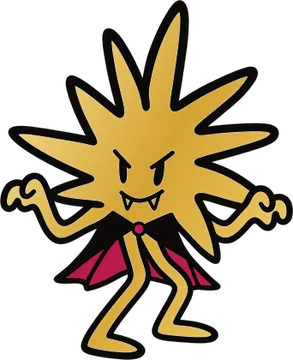
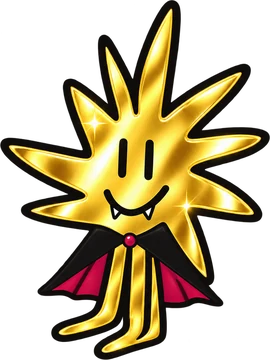
Henny Penny headings, new golden Manyong, reset PIN, 'done' button
Claude-Session: https://claude.ai/code/session_01UAPsCXmMB6vHayoDnXwrPd

diff --git a/app.js b/app.js
@@ -13,7 +13,7 @@ const T = {
  en:{eyebrow:"Halloween · Oct 26–31",title:"Find Manyong!",lead:"Our vampire Manyong is hiding in three spots in the store. Tap a shadow and scan the QR code when you find him.",
   found:"Found",tap:"Tap a shadow to open the camera.",slotOpen:"Still hiding",slotDone:"Found!",
   doneEyebrow:"All three found",doneTitle:"You caught Manyong!",sample:"SAMPLE",valid:"Valid until 31 Oct 2026",show:"Show this screen at the checkout",
-  hint:"Our staff will confirm it with a PIN.",staff:"Staff only · Redeem",pinLabel:"Staff PIN",pinWrong:"Wrong PIN.",pinLocked:"Too many tries. Please wait {s} s.",pinNoHttps:"PIN check needs a secure (https) page.",
+  hint:"Our staff will confirm it with a PIN.",staff:"I'm done!",pinLabel:"Staff PIN",pinWrong:"Wrong PIN.",pinLocked:"Too many tries. Please wait {s} s.",pinNoHttps:"PIN check needs a secure (https) page.",
   usedAt:"Redeemed ",stamp:"Redeemed",ended:"This promotion has ended.",redeemedToast:"Coupon redeemed",
   secretEyebrow:"Psst … secret",secretTitle:"There's one more: the golden Manyong.",secretHint:"Play “Don't Wake Manyong!” in the K-POP zone on the 1st floor. Win, and a secret QR code appears on the screen.",
   bonusEyebrow:"Secret found",bonusTitle:"Golden Manyong found!",bonusEarly:"Golden Manyong found! Find the other three to unlock it.",
@@ -26,7 +26,7 @@ const T = {
  de:{eyebrow:"Halloween · 26.–31. Oktober",title:"Finde Manyong!",lead:"Unser Vampir Manyong hat sich an drei Orten im Store versteckt. Tippe auf einen Schatten und scanne den QR-Code, wenn du ihn findest.",
   found:"Gefunden",tap:"Tippe auf einen Schatten, um die Kamera zu öffnen.",slotOpen:"Noch versteckt",slotDone:"Gefunden!",
   doneEyebrow:"Alle drei gefunden",doneTitle:"Manyong ist erwischt!",sample:"BEISPIEL",valid:"Gültig bis 31.10.2026",show:"Zeig diesen Bildschirm an der Kasse",
-  hint:"Unser Team bestätigt mit einer PIN.",staff:"Nur Personal · Einlösen",pinLabel:"Personal-PIN",pinWrong:"Falsche PIN.",pinLocked:"Zu viele Versuche. Bitte {s} Sek. warten.",pinNoHttps:"Die PIN-Prüfung braucht eine sichere (https) Seite.",
+  hint:"Unser Team bestätigt mit einer PIN.",staff:"Geschafft!",pinLabel:"Personal-PIN",pinWrong:"Falsche PIN.",pinLocked:"Zu viele Versuche. Bitte {s} Sek. warten.",pinNoHttps:"Die PIN-Prüfung braucht eine sichere (https) Seite.",
   usedAt:"Eingelöst am ",stamp:"Eingelöst",ended:"Diese Aktion ist beendet.",redeemedToast:"Coupon eingelöst",
   secretEyebrow:"Psst … geheim",secretTitle:"Da ist noch ein goldener Manyong.",secretHint:"Spiel „Weck Manyong nicht auf!“ in der K-POP-Zone im 1. OG. Wer gewinnt, bekommt einen geheimen QR-Code auf dem Bildschirm.",
   bonusEyebrow:"Geheimnis gelüftet",bonusTitle:"Goldener Manyong gefunden!",bonusEarly:"Goldener Manyong gefunden! Finde zuerst die anderen drei.",
@@ -39,7 +39,7 @@ const T = {
  ko:{eyebrow:"Halloween · 10월 26–31일",title:"숨은 마뇽을 찾아라!",lead:"뱀파이어 마뇽이 매장 세 곳에 숨었어요. 그림자를 누르고, 마뇽을 찾으면 옆의 QR을 찍어 주세요.",
   found:"찾은 마뇽",tap:"그림자를 누르면 카메라가 켜져요.",slotOpen:"숨어 있음",slotDone:"찾았다!",
   doneEyebrow:"세 마리 모두 찾음",doneTitle:"마뇽을 잡았어요!",sample:"예시",valid:"2026년 10월 31일까지 사용 가능",show:"계산대에서 이 화면을 보여 주세요",
-  hint:"직원이 PIN으로 확인해 드려요.",staff:"직원 전용 · 사용 처리",pinLabel:"직원 PIN",pinWrong:"PIN이 맞지 않아요.",pinLocked:"시도가 너무 많아요. {s}초 후에 다시 해 주세요.",pinNoHttps:"PIN 확인은 https 페이지에서만 돼요.",
+  hint:"직원이 PIN으로 확인해 드려요.",staff:"완료했어요",pinLabel:"직원 PIN",pinWrong:"PIN이 맞지 않아요.",pinLocked:"시도가 너무 많아요. {s}초 후에 다시 해 주세요.",pinNoHttps:"PIN 확인은 https 페이지에서만 돼요.",
   usedAt:"사용 완료 ",stamp:"사용 완료",ended:"이벤트가 끝났어요.",redeemedToast:"쿠폰 사용 완료",
   secretEyebrow:"쉿… 비밀",secretTitle:"황금 마뇽이 하나 더 있어요.",secretHint:"1층 K-POP존에서 ‘마뇽을 깨우지 마!’ 게임을 해 보세요. 성공하면 화면에 비밀 QR이 나타나요.",
   bonusEyebrow:"비밀을 찾았어요",bonusTitle:"황금 마뇽을 찾았어요!",bonusEarly:"황금 마뇽을 찾았어요! 나머지 세 마리를 먼저 찾아 주세요.",
@@ -53,7 +53,7 @@ const T = {
 
 const IMG = { s1:"img/s1.webp", s2:"img/s2.webp", s3:"img/s3.webp", c1:"img/c1.webp", c2:"img/c2.webp", c3:"img/c3.webp", gold:"img/gold.webp", sgold:"img/sgold.webp" };
 
-const fresh = () => ({ found: [], code: null, redeemed: null, bonusRedeemed: null, visited: false, pinFails: 0, lockUntil: 0 });
+const fresh = () => ({ found: [], code: null, redeemed: null, bonusRedeemed: null, visited: false, tester: false, pinFails: 0, lockUntil: 0 });
 let state = fresh();
 let lang = "en";
 const $ = s => document.querySelector(s);
@@ -88,7 +88,7 @@ let flushing = false;
 try { queue = JSON.parse(localStorage.getItem(Q_KEY)) || []; } catch (e) { queue = []; }
 function saveQ() { try { localStorage.setItem(Q_KEY, JSON.stringify(queue.slice(-50))); } catch (e) {} }
 function track(ev, extra) {
-  if (!CFG.sheetUrl) return;
+  if (!CFG.sheetUrl || state.tester) return;   // phones used for testing are not counted
   queue.push(Object.assign({ ev: ev, lang: lang, t: Date.now() }, extra || {}));
   saveQ(); flush();
 }
@@ -107,20 +107,23 @@ async function flush() {
 window.addEventListener("online", flush);
 
 /* ---------- PIN ---------- */
-async function pinOk(pin) {
+// Returns "staff", "reset" or false.
+async function pinKind(pin) {
   if (!window.crypto || !crypto.subtle) throw new Error("nohttps");
   const buf = await crypto.subtle.digest("SHA-256", new TextEncoder().encode("manyong:" + pin));
   const hex = Array.from(new Uint8Array(buf)).map(b => b.toString(16).padStart(2, "0")).join("");
-  return hex === String(CFG.staffPinHash || "").toLowerCase();
+  if (hex === String(CFG.staffPinHash || "").toLowerCase()) return "staff";
+  if (CFG.resetPinHash && hex === String(CFG.resetPinHash).toLowerCase()) return "reset";
+  return false;
 }
 function lockLeft() { return Math.max(0, Math.ceil((state.lockUntil - Date.now()) / 1000)); }
 async function checkPin(pin, errEl, box) {
   errEl.textContent = "";
   const left = lockLeft();
   if (left) { errEl.textContent = t("pinLocked").replace("{s}", left); return false; }
-  let ok = false;
-  try { ok = await pinOk(pin); } catch (e) { errEl.textContent = t("pinNoHttps"); return false; }
-  if (ok) { state.pinFails = 0; save(); return true; }
+  let kind = false;
+  try { kind = /^\d{4}$/.test(pin) ? await pinKind(pin) : false; } catch (e) { errEl.textContent = t("pinNoHttps"); return false; }
+  if (kind) { state.pinFails = 0; save(); return kind; }
   state.pinFails = (state.pinFails || 0) + 1;
   if (state.pinFails >= 5) { state.pinFails = 0; state.lockUntil = Date.now() + 60000; }
   save();
@@ -128,27 +131,48 @@ async function checkPin(pin, errEl, box) {
   if (box) { box.classList.remove("shake"); void box.offsetWidth; box.classList.add("shake"); }
   return false;
 }
+// Back to the very start on this phone (testing). Not counted.
+function hardReset() {
+  state = Object.assign(fresh(), { visited: true, tester: true });
+  save();
+  Object.keys(coupons).forEach(k => { coupons[k].open = false; coupons[k].q("pinbox").hidden = true; });
+  $("#staffpanel").hidden = true;
+  if (location.hash) { try { history.replaceState(null, "", location.pathname); } catch (e) {} }
+  render(); window.scrollTo(0, 0); toast("✓");
+}
 
 /* ---------- coupons ---------- */
 const coupons = {};
 function buildCoupon(el, kind) {
   el.appendChild($("#couponTpl").content.cloneNode(true));
   const q = k => el.querySelector('[data-k="' + k + '"]');
-  const c = { el: el, kind: kind, q: q };
-  q("staff").addEventListener("click", () => {
-    q("staff").hidden = true; q("pinbox").hidden = false; q("pin").value = ""; q("pinerr").textContent = "";
+  const c = { el: el, kind: kind, q: q, open: false };
+  const openPad = () => {
+    c.open = true; q("staff").hidden = true; q("pinbox").hidden = false; q("pin").value = ""; q("pinerr").textContent = "";
     q("pin").focus();
-  });
-  q("cancel").addEventListener("click", () => { q("pinbox").hidden = true; q("staff").hidden = false; });
+  };
+  const closePad = () => { c.open = false; q("pinbox").hidden = true; renderCoupon(kind); };
+  q("staff").addEventListener("click", openPad);
+  q("stamp").addEventListener("click", openPad);   // used coupon: tap the stamp to open the PIN pad
+  q("ended").addEventListener("click", openPad);
+  q("cancel").addEventListener("click", closePad);
+  let busy = false;
   const submit = async () => {
+    if (busy) return;
+    busy = true;
     const pin = q("pin").value.trim();
-    if (!/^\d{4}$/.test(pin)) { q("pinerr").textContent = t("pinWrong"); return; }
-    const ok = await checkPin(pin, q("pinerr"), q("pinbox"));
+    const res = await checkPin(pin, q("pinerr"), q("pinbox"));
     q("pin").value = "";
-    if (!ok) return;
-    if (kind === "main") { state.redeemed = Date.now(); track("redeem", { code: state.code }); }
-    else { state.bonusRedeemed = Date.now(); track("bonus_redeem", { code: state.code }); }
-    save(); q("pinbox").hidden = true; render(); toast(t("redeemedToast"));
+    busy = false;
+    if (!res) return;
+    if (res === "reset") { hardReset(); return; }
+    const used = kind === "main" ? state.redeemed : state.bonusRedeemed;
+    if (!used && !ended()) {
+      if (kind === "main") { state.redeemed = Date.now(); track("redeem", { code: state.code }); }
+      else { state.bonusRedeemed = Date.now(); track("bonus_redeem", { code: state.code }); }
+      save(); toast(t("redeemedToast"));
+    }
+    c.open = false; q("pinbox").hidden = true; render();
   };
   q("ok").addEventListener("click", submit);
   q("pin").addEventListener("keydown", e => { if (e.key === "Enter") { e.preventDefault(); submit(); } });
@@ -182,8 +206,8 @@ function renderCoupon(kind) {
   q("ended").hidden = !isEnded;
   const canRedeem = !used && !isEnded;
   q("hint").hidden = !canRedeem;
-  if (!canRedeem) { q("staff").hidden = true; q("pinbox").hidden = true; }
-  else if (q("pinbox").hidden) q("staff").hidden = false;
+  q("pinbox").hidden = !c.open;
+  q("staff").hidden = c.open || !canRedeem;
 }
 
 /* ---------- render ---------- */
@@ -356,16 +380,12 @@ document.querySelectorAll(".langs button").forEach(b => b.addEventListener("clic
   lang = b.dataset.lang; try { localStorage.setItem(KEY + "-lang", lang); } catch (e) {} render();
 }));
 
-// Staff-only reset: open the page with #reset, enter the PIN.
+// Testing: open the page with #reset and enter the reset PIN (works at any point).
 async function doReset() {
-  const ok = await checkPin($("#resetPin").value.trim(), $("#resetErr"), $("#staffpanel"));
+  const res = await checkPin($("#resetPin").value.trim(), $("#resetErr"), $("#staffpanel"));
   $("#resetPin").value = "";
-  if (!ok) return;
-  const keep = { visited: state.visited };
-  state = Object.assign(fresh(), keep); save();
-  $("#staffpanel").hidden = true;
-  try { history.replaceState(null, "", location.pathname); } catch (e) {}
-  render(); toast(t("resetDone"));
+  if (res === "reset") hardReset();
+  else if (res) $("#resetErr").textContent = t("pinWrong");
 }
 $("#resetGo").addEventListener("click", doReset);
 $("#resetPin").addEventListener("keydown", e => { if (e.key === "Enter") doReset(); });

diff --git a/index.html b/index.html
@@ -11,6 +11,7 @@
 <link rel="apple-touch-icon" href="img/icon.png">
 <style>
 /* Layout: one phone-width column. A dark store-at-night ground, three white "plates" that hold the shadows, one gold secret below. Single dark look by choice. */
+@font-face{font-family:"Henny Penny";src:url(fonts/hennypenny.woff2) format("woff2");font-weight:400;font-display:swap}
 @font-face{font-family:"Bricolage Grotesque";src:url(fonts/bricolage-800.woff2) format("woff2");font-weight:800;font-display:swap}
 @font-face{font-family:"Instrument Sans";src:url(fonts/instrument-400.woff2) format("woff2");font-weight:400;font-display:swap}
 @font-face{font-family:"Instrument Sans";src:url(fonts/instrument-500.woff2) format("woff2");font-weight:500;font-display:swap}
@@ -20,10 +21,13 @@
   --plate:#f3f1ec; --plate-ink:#111; --red:#c4144b; --gold:#e3b34c; --gold-deep:#b8862a; --bad:#ff7a9c;
   --silver:linear-gradient(100deg,#c9c9cf 0%,#ffffff 35%,#a7a7ae 60%,#f1f1f4 100%);
   --kr:"Apple SD Gothic Neo","Noto Sans KR","Noto Sans CJK KR","Malgun Gothic";
-  --f-display:"Bricolage Grotesque",var(--kr),system-ui,sans-serif;
+  --f-display:"Henny Penny",var(--kr),system-ui,sans-serif; --dw:400; --dls:0;
+  --f-brand:"Bricolage Grotesque",system-ui,sans-serif;
   --f-body:"Instrument Sans",var(--kr),system-ui,-apple-system,sans-serif;
   color-scheme:dark;
 }
+/* Korean has no Henny Penny glyphs: use the brand face there */
+html[lang="ko"]{--f-display:"Bricolage Grotesque",var(--kr),system-ui,sans-serif;--dw:800;--dls:-.02em}
 *{box-sizing:border-box}
 html,body{background:var(--bg);color:var(--ink);margin:0}
 :root{padding-top:env(safe-area-inset-top,0px);padding-bottom:env(safe-area-inset-bottom,0px)}
@@ -35,19 +39,19 @@ button{font:inherit;color:inherit}
 :focus-visible{outline:2px solid var(--gold);outline-offset:3px;border-radius:6px}
 
 .top{display:flex;justify-content:space-between;align-items:center;padding-top:18px}
-.wordmark{font-family:var(--f-display);font-weight:800;font-size:18px;letter-spacing:-.01em;background:var(--silver);-webkit-background-clip:text;background-clip:text;color:transparent;text-decoration:none}
+.wordmark{font-family:var(--f-brand);font-weight:800;font-size:18px;letter-spacing:-.01em;background:var(--silver);-webkit-background-clip:text;background-clip:text;color:transparent;text-decoration:none}
 .langs{display:flex;gap:2px;background:var(--panel);border:1px solid var(--line);border-radius:999px;padding:3px}
 .langs button{background:none;border:0;padding:4px 10px;border-radius:999px;font-size:12px;font-weight:600;letter-spacing:.06em;color:var(--mute);cursor:pointer}
 .langs button[aria-pressed="true"]{background:var(--ink);color:var(--bg)}
 
 .hero{display:flex;flex-direction:column;gap:10px}
 .eyebrow{font-size:12px;font-weight:600;letter-spacing:.14em;text-transform:uppercase;color:var(--red)}
-h1{font-family:var(--f-display);font-weight:800;font-size:clamp(34px,10vw,46px);line-height:1;letter-spacing:-.03em;margin:0;text-wrap:balance}
+h1{font-family:var(--f-display);font-weight:var(--dw);font-size:clamp(34px,10vw,46px);line-height:1.05;letter-spacing:var(--dls);margin:0;text-wrap:balance}
 .lead{margin:0;color:var(--mute);max-width:36ch}
 
 .board{display:flex;flex-direction:column;gap:14px}
 .progress{display:flex;justify-content:space-between;align-items:baseline;font-size:14px;color:var(--mute)}
-.progress b{font-family:var(--f-display);font-size:22px;color:var(--ink);font-variant-numeric:tabular-nums}
+.progress b{font-family:var(--f-display);font-weight:var(--dw);font-size:22px;color:var(--ink);font-variant-numeric:tabular-nums}
 .bar{height:4px;background:var(--line);border-radius:4px;overflow:hidden}
 .bar i{display:block;height:100%;width:0;background:var(--red);transition:width .5s ease}
 .plates{display:grid;grid-template-columns:repeat(3,1fr);gap:12px}
@@ -67,11 +71,11 @@ h1{font-family:var(--f-display);font-weight:800;font-size:clamp(34px,10vw,46px);
 
 .steps{list-style:none;margin:0;padding:18px 0 0;display:flex;flex-direction:column;gap:10px;border-top:1px solid var(--line)}
 .steps li{display:grid;grid-template-columns:28px 1fr;gap:10px;font-size:14px;color:var(--mute)}
-.steps li span{font-family:var(--f-display);font-weight:800;color:var(--ink)}
+.steps li span{font-family:var(--f-display);font-weight:var(--dw);color:var(--ink)}
 
 /* coupon */
 .reward{background:var(--plate);color:var(--plate-ink);border-radius:22px;padding:22px;display:flex;flex-direction:column;gap:14px;position:relative;overflow:hidden}
-.reward h2,.secret h2{font-family:var(--f-display);font-weight:800;font-size:28px;line-height:1.05;letter-spacing:-.02em;margin:0;text-wrap:balance}
+.reward h2,.secret h2{font-family:var(--f-display);font-weight:var(--dw);font-size:28px;line-height:1.1;letter-spacing:var(--dls);margin:0;text-wrap:balance}
 .reward .row{display:flex;gap:14px;align-items:center}
 .reward .row img{width:76px;height:76px;object-fit:contain;flex:none;animation:bob 1.4s ease-in-out infinite}
 @keyframes bob{50%{transform:translateY(-6px) rotate(-4deg)}}
@@ -94,7 +98,7 @@ h1{font-family:var(--f-display);font-weight:800;font-size:clamp(34px,10vw,46px);
 .pinerr{margin:0;font-size:13px;font-weight:600;color:var(--red);min-height:1.2em}
 .shake{animation:shake .35s}
 @keyframes shake{25%{transform:translateX(-6px)}75%{transform:translateX(6px)}}
-.stamp{align-self:center;margin-top:4px;transform:rotate(-6deg);border:3px solid var(--red);color:var(--red);border-radius:10px;padding:4px 10px;font-family:var(--f-display);font-weight:800;font-size:20px;letter-spacing:.04em;text-transform:uppercase;background:rgba(243,241,236,.9)}
+.stamp{align-self:center;margin-top:4px;transform:rotate(-6deg);border:3px solid var(--red);color:var(--red);border-radius:10px;padding:4px 10px;font-family:var(--f-display);font-weight:var(--dw);font-size:20px;letter-spacing:.04em;text-transform:uppercase;cursor:default;background:rgba(243,241,236,.9)}
 .usedline{font-weight:600;color:var(--red);font-size:14px}
 .reward.redeemed .row img{animation:none;filter:grayscale(1);opacity:.6}
 .reward.redeemed .ticket .dot{animation:none;background:#999}
@@ -118,7 +122,7 @@ footer a{color:var(--ink);text-underline-offset:3px}
 .sheet{position:fixed;inset:0;z-index:20;background:rgba(0,0,0,.7);display:flex;align-items:flex-end;justify-content:center}
 .sheet-in{width:100%;max-width:480px;background:var(--panel);border-radius:22px 22px 0 0;padding:18px 16px calc(20px + env(safe-area-inset-bottom,0px));display:flex;flex-direction:column;gap:14px;max-height:92%;overflow:auto}
 .sheet-head{display:flex;justify-content:space-between;align-items:center}
-.sheet-head h3{margin:0;font-family:var(--f-display);font-size:20px}
+.sheet-head h3{margin:0;font-family:var(--f-display);font-weight:var(--dw);font-size:22px}
 .x{background:var(--line);border:0;border-radius:50%;width:34px;height:34px;cursor:pointer;font-size:18px}
 .cam{position:relative;width:100%;aspect-ratio:1;max-width:100%;background:#000;border-radius:16px;overflow:hidden;display:grid;place-items:center}
 .cam video{width:100%;height:100%;object-fit:cover}

diff --git a/config.js b/config.js
@@ -12,6 +12,10 @@ window.MANYONG_CONFIG = {
   // PIN은 매장 직원에게만 공유하세요.
[1 lines of base64/hex data omitted]
 
+  // 테스트용 초기화 PIN (SHA-256 해시값). 쿠폰의 PIN 칸에 이 번호를 넣으면 처음 상태로 돌아갑니다.
+  // 지금 값은 임시 PIN 8642 입니다.
[1 lines of base64/hex data omitted]
+
   // 이 시각이 지나면 쿠폰을 사용할 수 없습니다 (독일 시간 11/1 0시)
   endsAt: "2026-11-01T00:00:00+01:00",
 
